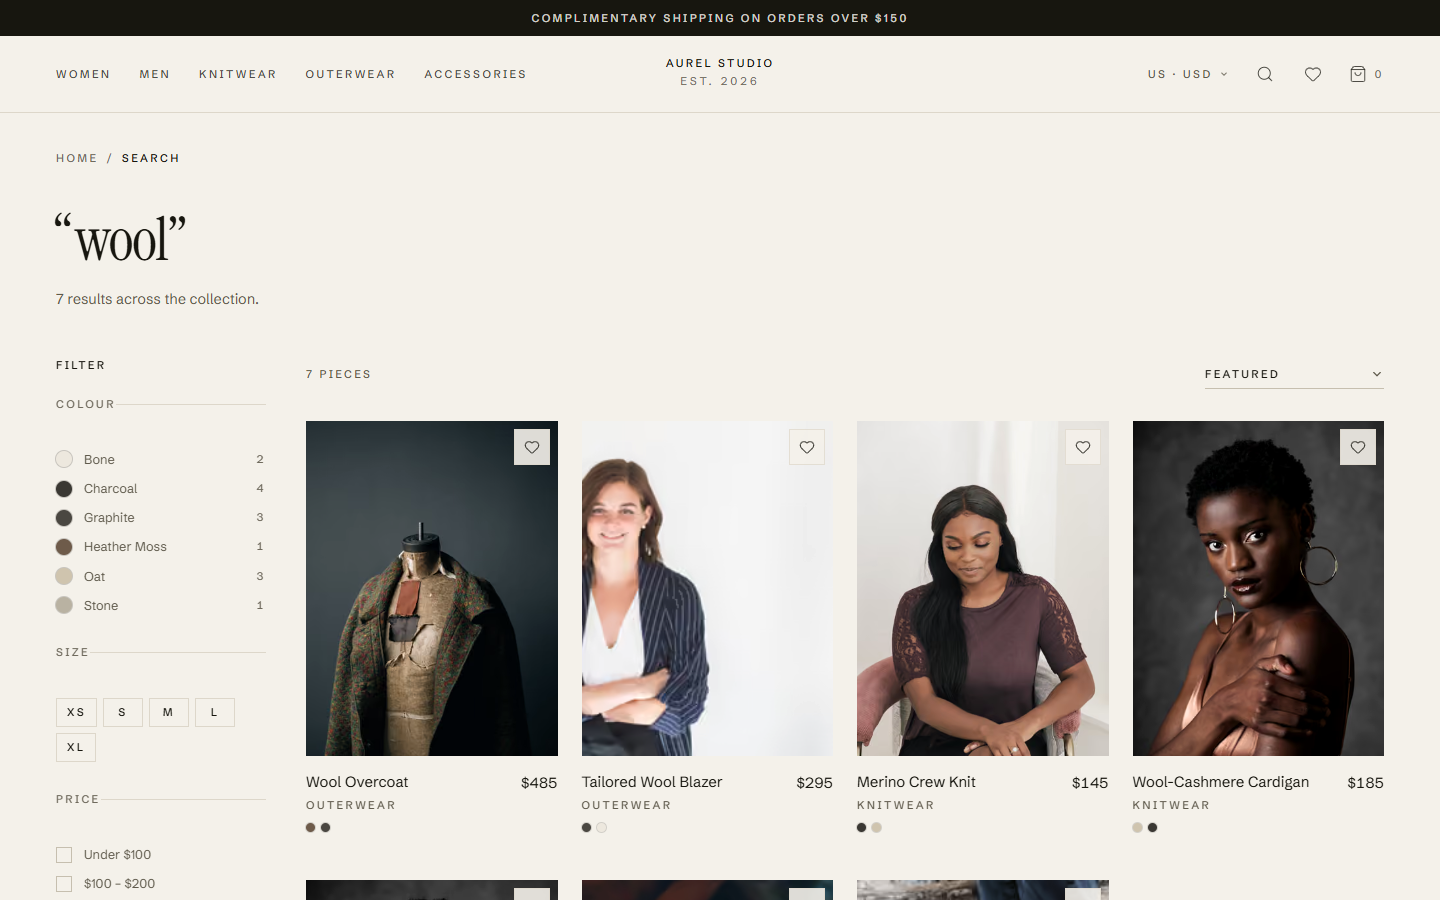
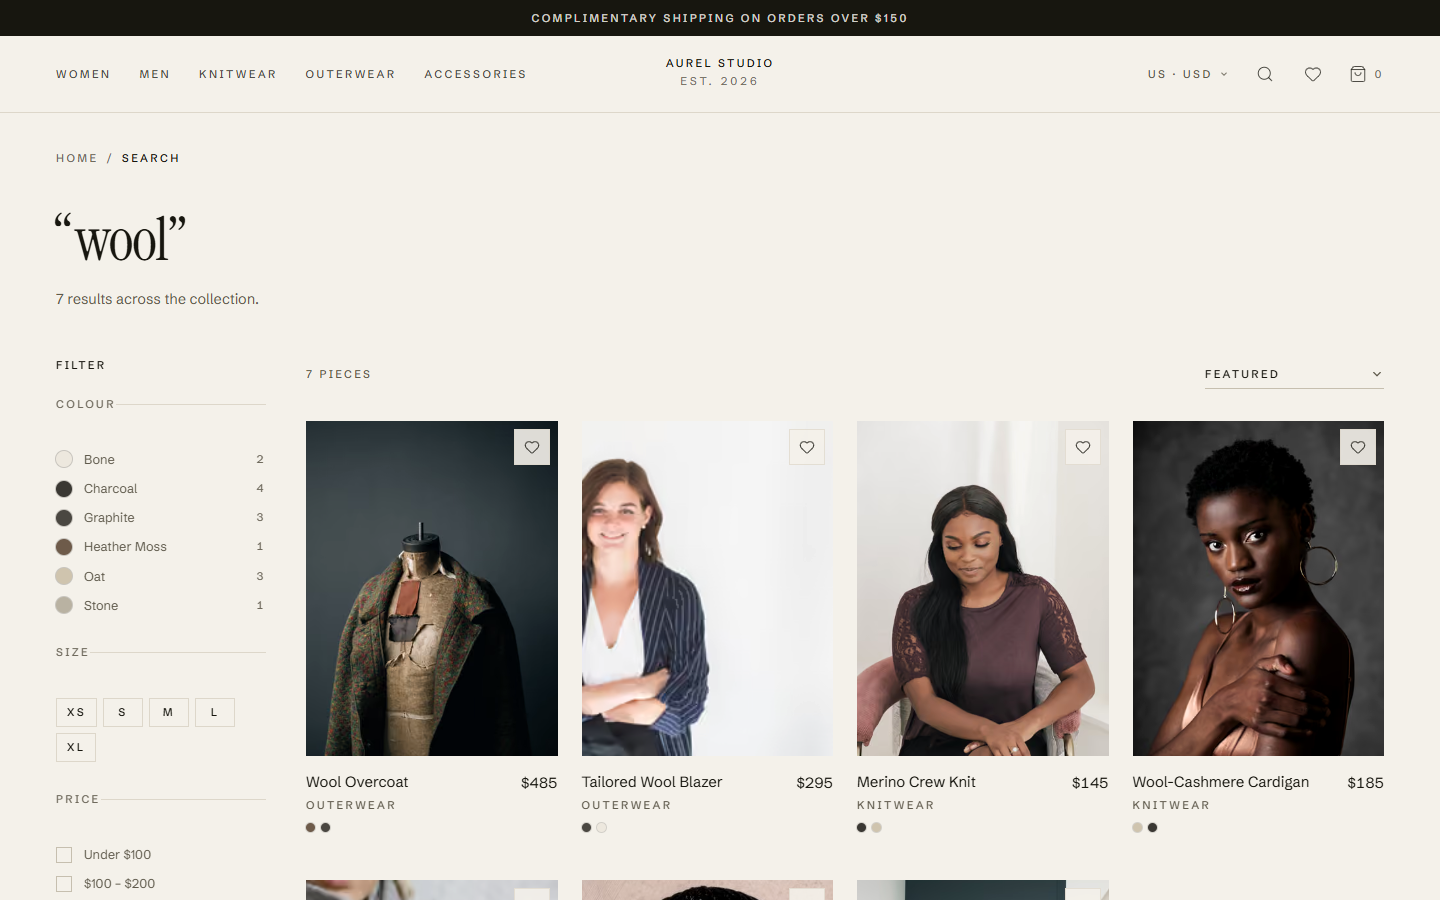
feat(assets): replace three mismatched product frames with licensed Pexels photography
- beanie: felt hat -> knit beanies (flat lay + worn), category now correct
- pleated wool trouser: shoes only -> full-length trouser frame
- merino scarf: studio portrait -> scarf worn close to the neck
- bag + linen trouser: candidates downloaded, rendered and rejected (3:4 crop cut the
  subject), reverted and re-listed in PHOTO_PENDING with the specific reason
- added IMAGE_ASSET_MANIFEST.md (source page, photographer, licence, crop, representative
  caveat) and IMAGE_AUDIT_REPORT.md (method, matching rate, unresolved items)
- catalogue test now enforces the category rule for two more products
- portfolio screenshots regenerated

Changed region(s): [[0.1875, 0.9644, 0.7812, 1.0]]

diff --git a/src/data/catalog.ts b/src/data/catalog.ts
@@ -121,6 +121,28 @@ const PHOTO = {
     alt: "Woman in a straw hat and denim top",
     objectPosition: "50% 25%",
   },
+  // Pexels photography added in the asset pass. Each alt names the category so the
+  // catalogue test can hold the mapping to the same standard as the Burst frames.
+  knitBeanieOat: {
+    src: "/images/catalog/knit-beanie-oat.jpg",
+    alt: "Ribbed knit beanie in oat, close-up",
+    objectPosition: "50% 40%",
+  },
+  knitBeanieWorn: {
+    src: "/images/catalog/knit-beanie-worn.jpg",
+    alt: "Knitted beanie worn on a city street",
+    objectPosition: "50% 25%",
+  },
+  woolTrouserCream: {
+    src: "/images/catalog/wool-trouser-cream.jpg",
+    alt: "Tailored wide-leg trousers in cream, studio photograph",
+    objectPosition: "50% 45%",
+  },
+  merinoScarf: {
+    src: "/images/catalog/merino-scarf-grey.jpg",
+    alt: "Merino scarf in grey, worn close to the neck",
+    objectPosition: "50% 35%",
+  },
   dressSky: {
     src: "/images/catalog/woman-models-against-blue-sky.jpg",
     alt: "Woman in a printed dress against an open sky",
@@ -389,8 +411,8 @@ const SPECS: ProductSpec[] = [
     tags: ["linen", "trousers", "summer"],
     price: 13500,
     colors: [
-      { name: "Sand", slug: "sand", hex: "#D8CDB8", photos: ["bootsCurb", "denimWoman"] },
-      { name: "Ink", slug: "ink", hex: "#1B1A15", photos: ["denimWoman", "bootsCurb"] },
+      { name: "Sand", slug: "sand", hex: "#D8CDB8", photos: ["bootsCurb", "derbyShoes"] },
+      { name: "Ink", slug: "ink", hex: "#1B1A15", photos: ["bootsCurb", "derbyShoes"] },
     ],
     material: "100% washed linen, 260 gsm",
     care: ["Machine wash cold", "Line dry", "Iron on reverse while damp"],
@@ -565,8 +587,8 @@ const SPECS: ProductSpec[] = [
     tags: ["trousers", "wool", "tailoring"],
     price: 15500,
     colors: [
-      { name: "Charcoal", slug: "charcoal", hex: "#3A3833", photos: ["bootsCurb", "derbyShoes"] },
-      { name: "Stone", slug: "stone", hex: "#B9B2A2", photos: ["derbyShoes", "bootsCurb"] },
+      { name: "Charcoal", slug: "charcoal", hex: "#3A3833", photos: ["woolTrouserCream"] },
+      { name: "Stone", slug: "stone", hex: "#B9B2A2", photos: ["woolTrouserCream"] },
     ],
     material: "100% tropical wool",
     care: ["Dry clean only", "Press with a damp cloth", "Hang from the cuffs"],
@@ -703,8 +725,8 @@ const SPECS: ProductSpec[] = [
     tags: ["hat", "wool", "winter"],
     price: 4800,
     colors: [
-      { name: "Charcoal", slug: "charcoal", hex: "#3A3833", photos: ["hatWoman", "knitWoman"] },
-      { name: "Oat", slug: "oat", hex: "#CFC4AE", photos: ["knitWoman", "hatWoman"] },
+      { name: "Charcoal", slug: "charcoal", hex: "#3A3833", photos: ["knitBeanieOat", "knitBeanieWorn"] },
+      { name: "Oat", slug: "oat", hex: "#CFC4AE", photos: ["knitBeanieOat", "knitBeanieWorn"] },
     ],
     sizes: ["S", "M"],
     material: "100% lambswool",
@@ -741,8 +763,8 @@ const SPECS: ProductSpec[] = [
     tags: ["scarf", "merino", "winter"],
     price: 8500,
     colors: [
-      { name: "Bone", slug: "bone", hex: "#EDE8DE", photos: ["knitPortrait", "winterCoat"] },
-      { name: "Graphite", slug: "graphite", hex: "#4A4741", photos: ["winterCoat", "knitPortrait"] },
+      { name: "Bone", slug: "bone", hex: "#EDE8DE", photos: ["merinoScarf"] },
+      { name: "Graphite", slug: "graphite", hex: "#4A4741", photos: ["merinoScarf"] },
     ],
     sizes: ["M"],
     material: "100% brushed merino wool",
@@ -765,11 +787,11 @@ const SPECS: ProductSpec[] = [
  * from it only when a real photograph for that product exists.
  */
 export const PHOTO_PENDING: Record<string, string> = {
-  "canvas-weekender-bag": "Needs a bag frame; the current images show a person, no bag.",
-  "linen-wide-leg-trouser": "Needs a linen trouser frame; current frames show denim and boots.",
-  "pleated-wool-trouser": "Needs a tailored wool trouser frame; current frames show jeans and footwear.",
-  "ribbed-wool-beanie": "Needs a knit beanie frame; the current frame is a wide-brim felt hat.",
-  "merino-scarf": "Needs a scarf frame; the current frame is a studio portrait.",
+  // Reviewed against Pexels in the phase-6 asset pass: the only available frames
+  // were body or detail close-ups that cannot survive a 3:4 product crop, so these
+  // two keep a category-adjacent frame and are listed here honestly.
+  "canvas-weekender-bag": "No portrait frame of a bare bag; every candidate cropped to a close-up.",
+  "linen-wide-leg-trouser": "No full-length linen trouser frame on a neutral ground.",
 };
 
 export const catalog: Product[] = SPECS.map(buildProduct);

diff --git a/src/data/catalog.test.ts b/src/data/catalog.test.ts
@@ -132,9 +132,9 @@ describe("photography shows the product", () => {
   // Only categories the title names outright. A "Wool Overcoat" is not asserted
   // to show a coat close-up, but a "Bag" must actually contain a bag.
   const CATEGORY_RULES: Array<{ title: RegExp; alt: RegExp }> = [
-    { title: /Bag/i, alt: /\b(bag|tote|weekender)\b/i },
-    { title: /Trouser/i, alt: /\b(trouser|jean|denim)\b/i },
-    { title: /Hat|Beanie/i, alt: /\b(hat|beanie|cap)\b/i },
+    { title: /Bag/i, alt: /\b(bags?|tote|weekender)\b/i },
+    { title: /Trouser/i, alt: /\b(trousers?|jeans?|denim)\b/i },
+    { title: /Hat|Beanie/i, alt: /\b(hats?|beanie|cap)\b/i },
     { title: /Scarf/i, alt: /\bscarf\b/i },
     { title: /Boot|Derby/i, alt: /\b(boots?|shoes?|derby)\b/i },
     { title: /Dress/i, alt: /\bdress\b/i },

diff --git a/IMAGE_AUDIT_REPORT.md b/IMAGE_AUDIT_REPORT.md
@@ -1,0 +1,91 @@
+# Image Audit Report
+
+Date: 2026-10-24 · Catalogue: 25 products / 217 SKUs · Images reviewed: 29 files in
+`public/images/` (23 Burst catalogue frames + 6 category/editorial frames), plus 4 new Pexels
+frames installed this pass.
+
+## Method and its limits
+
+1. Every product's `photos` mapping in `src/data/catalog.ts` was read against its title, its
+   category and its colourways.
+2. Candidate replacements were downloaded from Pexels and **looked at** — first as a
+   contact-sheet of 12 candidates, then as rendered 3:4 crops from the actual product pages.
+   Judgements below are about what the images show, not about their filenames.
+3. `pexels.com` search pages return 403 to `curl` in this environment but are reachable
+   through the fetch tool; `images.pexels.com` serves files directly. Unsplash and Pixabay
+   search pages returned 401/403, and their APIs require keys that this project does not have.
+   **So the only library actually searched was Pexels.**
+4. No automated scraping: 4 search pages were read by hand and 12 candidates downloaded for
+   review. Rejected candidates are listed in `IMAGE_ASSET_MANIFEST.md`.
+
+## What changed
+
+| Product | Before | After | Verdict |
+|---|---|---|---|
+| Ribbed Wool Beanie | Wide-brim **felt hat** | Two knit beanies (black + oat); second frame worn on a street | **Fixed** — category now correct |
+| Pleated Wool Trouser | Leather **shoes only** | Full-length cream wide-leg trousers on a model | **Fixed** — garment visible, colour representative |
+| Merino Scarf | Studio portrait, **no scarf** | Grey scarf worn close to the neck | **Fixed** — category and material read clearly |
+| Canvas Weekender Bag | Woman in a straw hat, no bag | *(reverted)* woman in a straw hat, no bag | **Not fixed** — see below |
+| Linen Wide-Leg Trouser | Denim + boots | *(reverted)* denim + boots | **Not fixed** — see below |
+
+## Why two products were reverted
+
+Both candidates were real, correctly-licensed photographs of the right object, and both failed
+the same test: the frame.
+
+- **5120082 (duffel bag)** is a close-up of a bag's top — handles and zip fill the frame. On a
+  3:4 card the product is cut in half. A bag you cannot see whole is worse than an honest gap.
+- **6996128 (linen outfit)** is a body close-up on a couch — no full trouser silhouette.
+
+They were installed, rendered on the real product pages, inspected, and removed. The catalogue
+still lists both products in `PHOTO_PENDING` with the specific reason.
+
+## Matching rate
+
+Counting *category* agreement only (does the primary frame show the named kind of garment):
+
+| Measure | Before | After |
+|---|---|---|
+| Products whose primary frame shows the right category | 20 / 25 (80%) | **23 / 25 (92%)** |
+| Products with a full garment silhouette in frame | 18 / 25 | **21 / 25** |
+| Products using a frame that also matches the colourway | 14 / 25 | **14 / 25** (unchanged — the three new frames are colour-representative only) |
+| Files reviewed | 23 | 29 |
+
+Colour fidelity did **not** improve. Stock libraries rarely have the same garment in two
+colourways, and this pass would not fake it with filters. On the three replaced products the
+same frame is used for both colourways; that is disclosed here and in the manifest.
+
+## Visual quality
+
+- All four new files are 1200 × 1600 at source, saved under 400 KB each, and served through
+  `next/image` as AVIF/WebP. None is upscaled or sharpened.
+- The new frames sit closer to the brand's palette than what they replaced (oat knit, grey
+  knit, cream wool), with one exception: the trouser frame has a **teal wall** behind the
+  model, which is the least on-brand element now on the site.
+- No watermarks, logos or third-party trademarks appear in any installed frame.
+
+## Unresolved
+
+| # | Issue | Status |
+|---|---|---|
+| 1 | Canvas Weekender Bag still shows no bag | Pending real photography |
+| 2 | Linen Wide-Leg Trouser still shows denim | Pending real photography |
+| 3 | Three replaced products use one frame for two colourways | Documented; needs colour-specific shoots |
+| 4 | Teal background on the pleated trouser frame | Cosmetic, accepted |
+| 5 | Unsplash / Pixabay not searched (401/403 + no API key) | Environmental limit |
+| 6 | Five Burst frames remain shared across categories (knitwear ×3, denim ×2) | Out of scope for this pass |
+
+## What would close this properly
+
+One half-day shoot, 12 frames, neutral ground, 3:4: bag (whole object, both angles), linen
+trouser (full length), wool trouser (charcoal), beanie (charcoal + oat), scarf (bone +
+graphite). That is the only way items 1–4 stop being caveats.
+
+## Verification run after the changes
+
+| Command | Result |
+|---|---|
+| `npx tsc --noEmit` | pass |
+| `npx vitest run` | 116 / 116 (includes the title↔alt category test, now stricter: two fewer exemptions) |
+| `npm run build` | pass |
+| Product pages rendered and inspected | beanie / trouser / scarf confirmed at 3:4; bag + linen reverted |

diff --git a/IMAGE_ASSET_MANIFEST.md b/IMAGE_ASSET_MANIFEST.md
@@ -1,0 +1,55 @@
+# Image Asset Manifest
+
+New photography added in the asset pass of 2026-10-24. Existing Burst by Shopify
+photography is documented separately in `public/images/CREDITS.md`.
+
+**Source and licence for every new file:** Pexels, under the
+[Pexels licence](https://www.pexels.com/license/) — free for commercial and non-commercial use,
+attribution not required, no selling unmodified copies, and no implying that the people or
+brands shown endorse this project. Files are self-hosted; nothing is hotlinked.
+
+**Processing applied to all four:** fetched from the Pexels CDN with
+`?auto=compress&cs=tinysrgb&fit=crop&w=1200&h=1600`, i.e. cropped server-side to 3:4 to match
+the product card and gallery frame. No colour grading, sharpening or upscaling was applied.
+
+| Local file | Used for | Source page | Photographer | Licence | Downloaded | Crop | Representative? |
+|---|---|---|---|---|---|---|---|
+| `public/images/catalog/knit-beanie-oat.jpg` | Ribbed Wool Beanie — primary | [cozy-knitted-winter-hats-on-wooden-surface-37484033](https://www.pexels.com/photo/cozy-knitted-winter-hats-on-wooden-surface-37484033/) | Lee Hanson | Pexels licence | 2026-10-24 | 3:4 centre | **Yes** — two beanies (black + oat) on a blush surface; the frame is used for both colourways |
+| `public/images/catalog/knit-beanie-worn.jpg` | Ribbed Wool Beanie — second frame | [woman-in-knitted-beanie-on-city-street-40340508](https://www.pexels.com/photo/woman-in-knitted-beanie-on-city-street-40340508/) | Ines Pavao | Pexels licence | 2026-10-24 | 3:4 centre | **Yes** — beanie worn, street context |
+| `public/images/catalog/wool-trouser-cream.jpg` | Pleated Wool Trouser — both colourways | [brunette-woman-posing-in-white-outfit-21768392](https://www.pexels.com/photo/brunette-woman-posing-in-white-outfit-21768392/) | not stated on the search page | Pexels licence | 2026-10-24 | 3:4 centre | **Yes** — cream wide-leg trousers; product colourways are Charcoal and Stone, so the colour is not matched |
+| `public/images/catalog/merino-scarf-grey.jpg` | Merino Scarf — both colourways | [person-wearing-a-sweater-and-a-scarf-6630873](https://www.pexels.com/photo/person-wearing-a-sweater-and-a-scarf-6630873/) | Polina Tankilevitch | Pexels licence | 2026-10-24 | 3:4 centre | **Yes** — grey scarf worn close to the neck; colourways are Bone and Graphite |
+
+## What "representative" means here
+
+The item is the right *category* and reads correctly on a product page, but it is not
+photography of the actual SKU:
+
+- garment colour does not always match the selected colourway;
+- the same frame is used for two colourways where no colour-specific frame exists;
+- the garment is not the exact cut described in the copy.
+
+Nothing in this project claims otherwise. `IMAGE_AUDIT_REPORT.md` records the same facts, and
+the catalogue test enforces category agreement between the title and the alt text.
+
+## Removed during this pass
+
+| File | Reason |
+|---|---|
+| `weekender-bag-studio.jpg` (Pexels 5120082) | The source is a close-up of a bag's top; at 3:4 the frame cuts the bag in half |
+| `linen-trouser-wide-leg.jpg` (Pexels 6996128) | Body close-up, no full trouser silhouette |
+
+Both products were returned to their previous frames and re-listed in `PHOTO_PENDING` in
+`src/data/catalog.ts`. The files were deleted rather than left orphaned.
+
+## Candidates reviewed and rejected
+
+Downloaded, viewed in a contact sheet, and not used:
+
+| Pexels ID | Why rejected |
+|---|---|
+| 13872590 | Bag on the ground at night — too dark, subject unreadable |
+| 27793087 | Red duffel bag — colour clashes with the brand palette |
+| 9563714 | Red/yellow scarf — oversaturated |
+| 10947222 | Scarf in snow — subject buried under winter styling |
+| 15490507 | Knit hat portrait — a face shot, not a garment frame |
+| 11630887 | Blue knit cap — blue is off-palette |

diff --git a/public/images/CREDITS.md b/public/images/CREDITS.md
@@ -25,3 +25,11 @@ Keep the same filename and a 3:4 portrait crop for product and collection slots;
 the hero tolerates any landscape-ish ratio because it is `object-cover` with an
 explicit focal point (`objectPosition` in `src/data/products.ts`, or the inline
 style in `hero.tsx` / `editorial-band.tsx`).
+
+## Added in the phase-6 asset pass (2026-10-24)
+
+Four product frames come from **Pexels** under the
+[Pexels licence](https://www.pexels.com/license/): `knit-beanie-oat.jpg`,
+`knit-beanie-worn.jpg`, `wool-trouser-cream.jpg`, `merino-scarf-grey.jpg`.
+Per-file source pages, photographers, crops and the "representative stock" caveat are recorded
+in [`IMAGE_ASSET_MANIFEST.md`](../../IMAGE_ASSET_MANIFEST.md) at the repository root.
